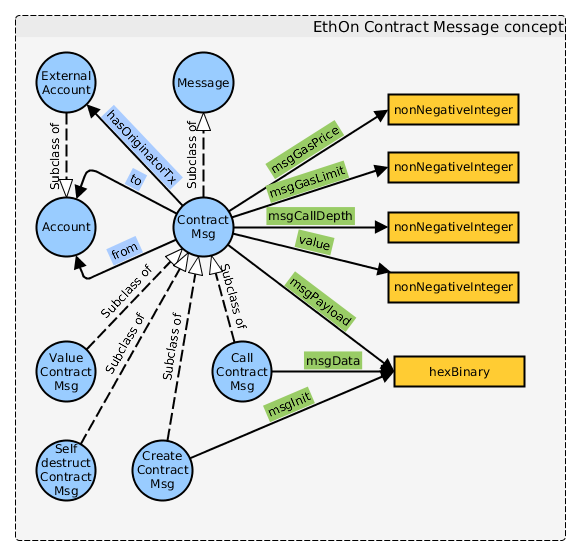
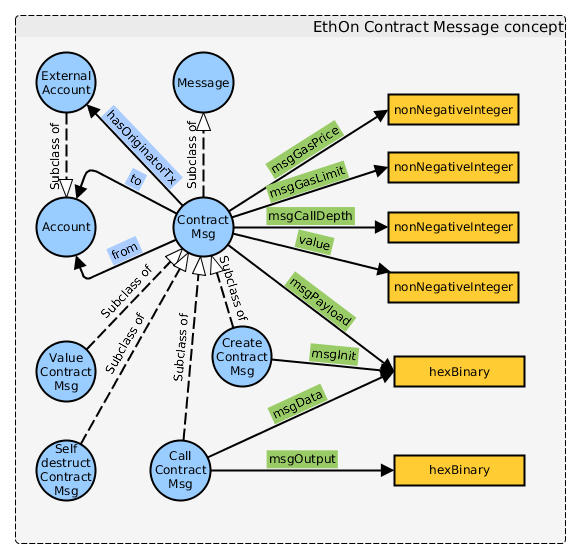
add msgOutput for ContractMessages #30

diff --git a/EthOn_spec.html b/EthOn_spec.html
@@ -144,7 +144,7 @@
         </div>
         <div class="col-sm-4">
             <!-- Properties tree-->
-            <h3>Properties <span class="badge">87</span></h3>
+            <h3>Properties <span class="badge">88</span></h3>
             <ul>
                     <li><a class="label label-default" href="#prop-dase_rule">DASE_RULE</a></li>
                     <li><a class="label label-default" href="#prop-ethonannotationproperty">EthOnAnnotationProperty</a><ul>
@@ -177,6 +177,7 @@
                     <li><a class="label label-default" href="#prop-msgcalldepth">msgCallDepth</a></li>
                     <li><a class="label label-default" href="#prop-msggaslimit">msgGasLimit</a></li>
                     <li><a class="label label-default" href="#prop-msggasprice">msgGasPrice</a></li>
+                    <li><a class="label label-default" href="#prop-msgoutput">msgOutput</a></li>
                     <li><a class="label label-default" href="#prop-msgpayload">msgPayload</a><ul>
                     <li><a class="label label-default" href="#prop-msgdata">msgData</a></li>
                     <li><a class="label label-default" href="#prop-msginit">msgInit</a></li></ul></li>
@@ -701,6 +702,13 @@
                 </tr>
             
             
+                <tr>
+                    <td class="col-md-2">Properties include</td>
+                    <td class="col-md-10">
+                        
+                            <a class="label label-default" href="#prop-msgoutput">msgOutput</a> 
+                    </td>
+                </tr>
             
             
             
@@ -4069,7 +4077,7 @@
 
 
     <!-- Datatype Property list-->
-    <h2>Datatype Property descriptions <span class="badge">44</span></h2>
+    <h2>Datatype Property descriptions <span class="badge">45</span></h2>
     
         <h3 id="prop-accountdataproperty">AccountDataProperty</h3>
         <p>Groups all Data Properties that are specific to an Account.</p>
@@ -4240,6 +4248,7 @@
                             <a class="label label-default" href="#prop-msgcalldepth">msgCallDepth</a> 
                             <a class="label label-default" href="#prop-msggaslimit">msgGasLimit</a> 
                             <a class="label label-default" href="#prop-msggasprice">msgGasPrice</a> 
+                            <a class="label label-default" href="#prop-msgoutput">msgOutput</a> 
                             <a class="label label-default" href="#prop-msgpayload">msgPayload</a> 
                             <a class="label label-default" href="#prop-receiptsroot">receiptsRoot</a> 
                             <a class="label label-default" href="#prop-topicdata">topicData</a> 
@@ -5486,6 +5495,55 @@
                 </tr>
             
             
+            
+                <tr>
+                    <td class="col-md-2">Every value is a</td>
+                    <td class="col-md-10">
+                        
+                            <a class="label label-primary" href="http://www.w3.org/2001/XMLSchema#hexBinary">http://www.w3.org/2001/XMLSchema#hexBinary</a> 
+                    </td>
+                </tr>
+            
+            
+        </table>
+    
+        <h3 id="prop-msgoutput">msgOutput</h3>
+        <p>The reulting output data from a CallContractMsg.</p>
+        <table class="table table-striped">
+            
+                <tr>
+                    <td class="col-md-2">Status</td>
+                    <td class="col-md-10 
+        text-danger
+    ">unstable</td>
+                </tr>
+            
+                <tr>
+                    <td class="col-md-2">URI</td>
+                    <td class="col-md-10"><a href="http://ethon.consensys.net/msgOutput">http://ethon.consensys.net/msgOutput</a></td>
+                </tr>
+            
+                <tr>
+                    <td class="col-md-2">Suggested string</td>
+                    <td class="col-md-10">msgOutput</td>
+                </tr>
+            
+                <tr>
+                    <td class="col-md-2">Superclasses</td>
+                    <td class="col-md-10">
+                        
+                            <a class="label label-default" href="#prop-messagedataproperty">MessageDataProperty</a> 
+                    </td>
+                </tr>
+            
+            
+                <tr>
+                    <td class="col-md-2">Implies being a</td>
+                    <td class="col-md-10">
+                        
+                            <a class="label label-primary" href="#class-callcontractmsg">CallContractMsg</a> 
+                    </td>
+                </tr>
             
                 <tr>
                     <td class="col-md-2">Every value is a</td>

diff --git a/EthOn_glossary.md b/EthOn_glossary.md
@@ -222,6 +222,9 @@ A scalar value equal to the number of Wei to be paid per unit of gas for all com
 ### Message init code
 [`ethon:msgInit`](http://ethon.consensys.net/msgInit)   
 An unlimited size byte array specifying the EVM-code for the Contract Account initialisation procedure.
+### Message output
+[`ethon:msgOutput`](http://ethon.consensys.net/msgOutput)   
+The reulting output data from a CallContractMsg.
 ### Message payload
 [`ethon:msgPayload`](http://ethon.consensys.net/msgPayload)   
 An unlimited size byte array specifying the data payload of the Message.
